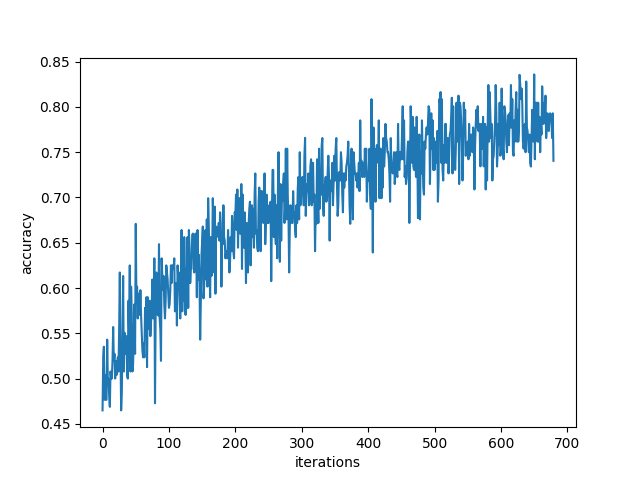
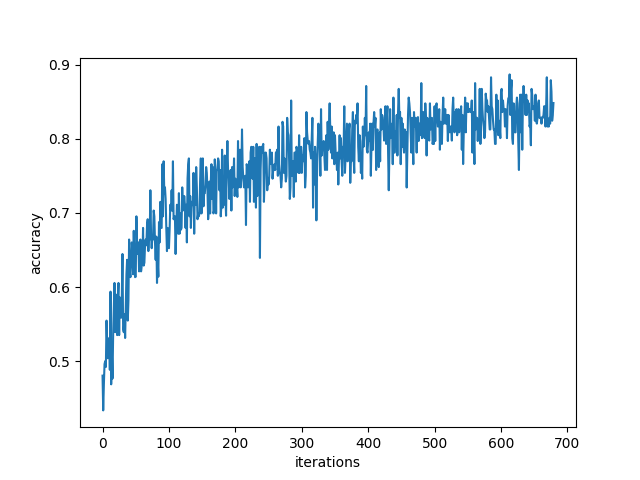
Doubled learning rate

diff --git a/Nick_tests/replicate/gender_model.py b/Nick_tests/replicate/gender_model.py
@@ -199,7 +199,7 @@ print("defined model")
 model.type(dtype)
 model.train()
 loss_fn = nn.CrossEntropyLoss().type(dtype)
-optimizer = optim.Adam(model.parameters(), lr=1e-6,weight_decay=1)
+optimizer = optim.Adam(model.parameters(), lr=2e-6,weight_decay=1)
 print("start training")
 loss_history,acc_history=train(train_loader, model, loss_fn, optimizer, dtype,num_epochs=40, print_every=17)
 
